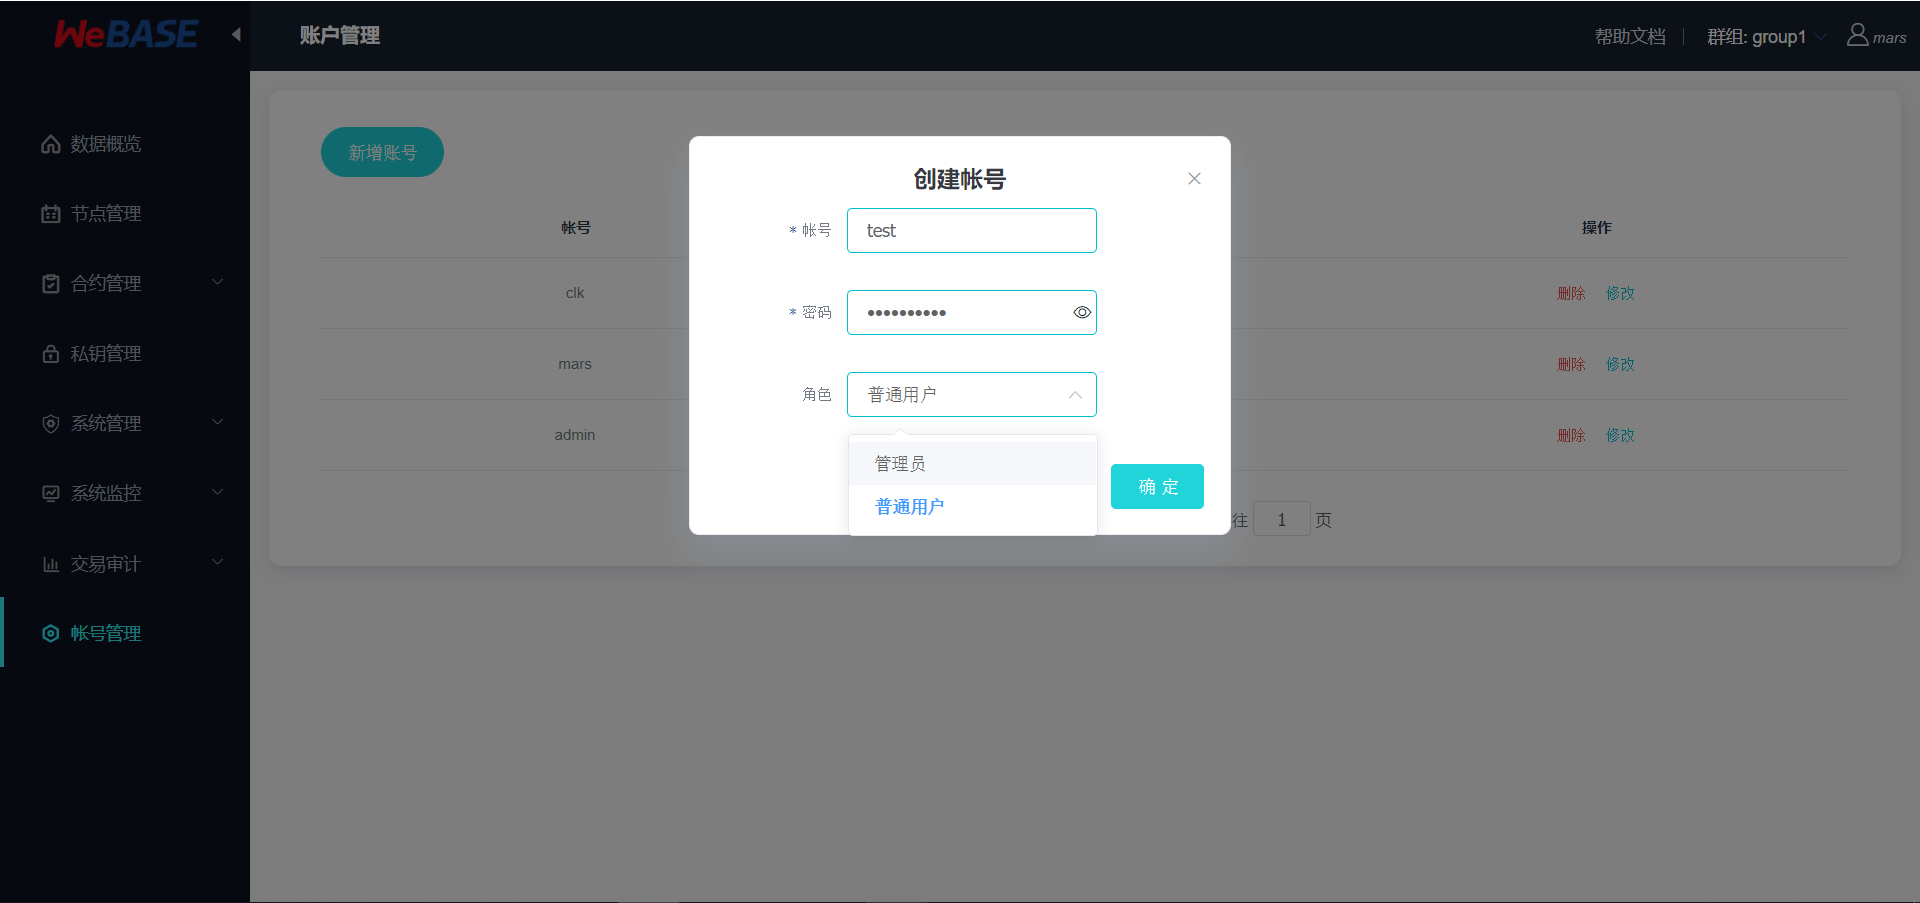
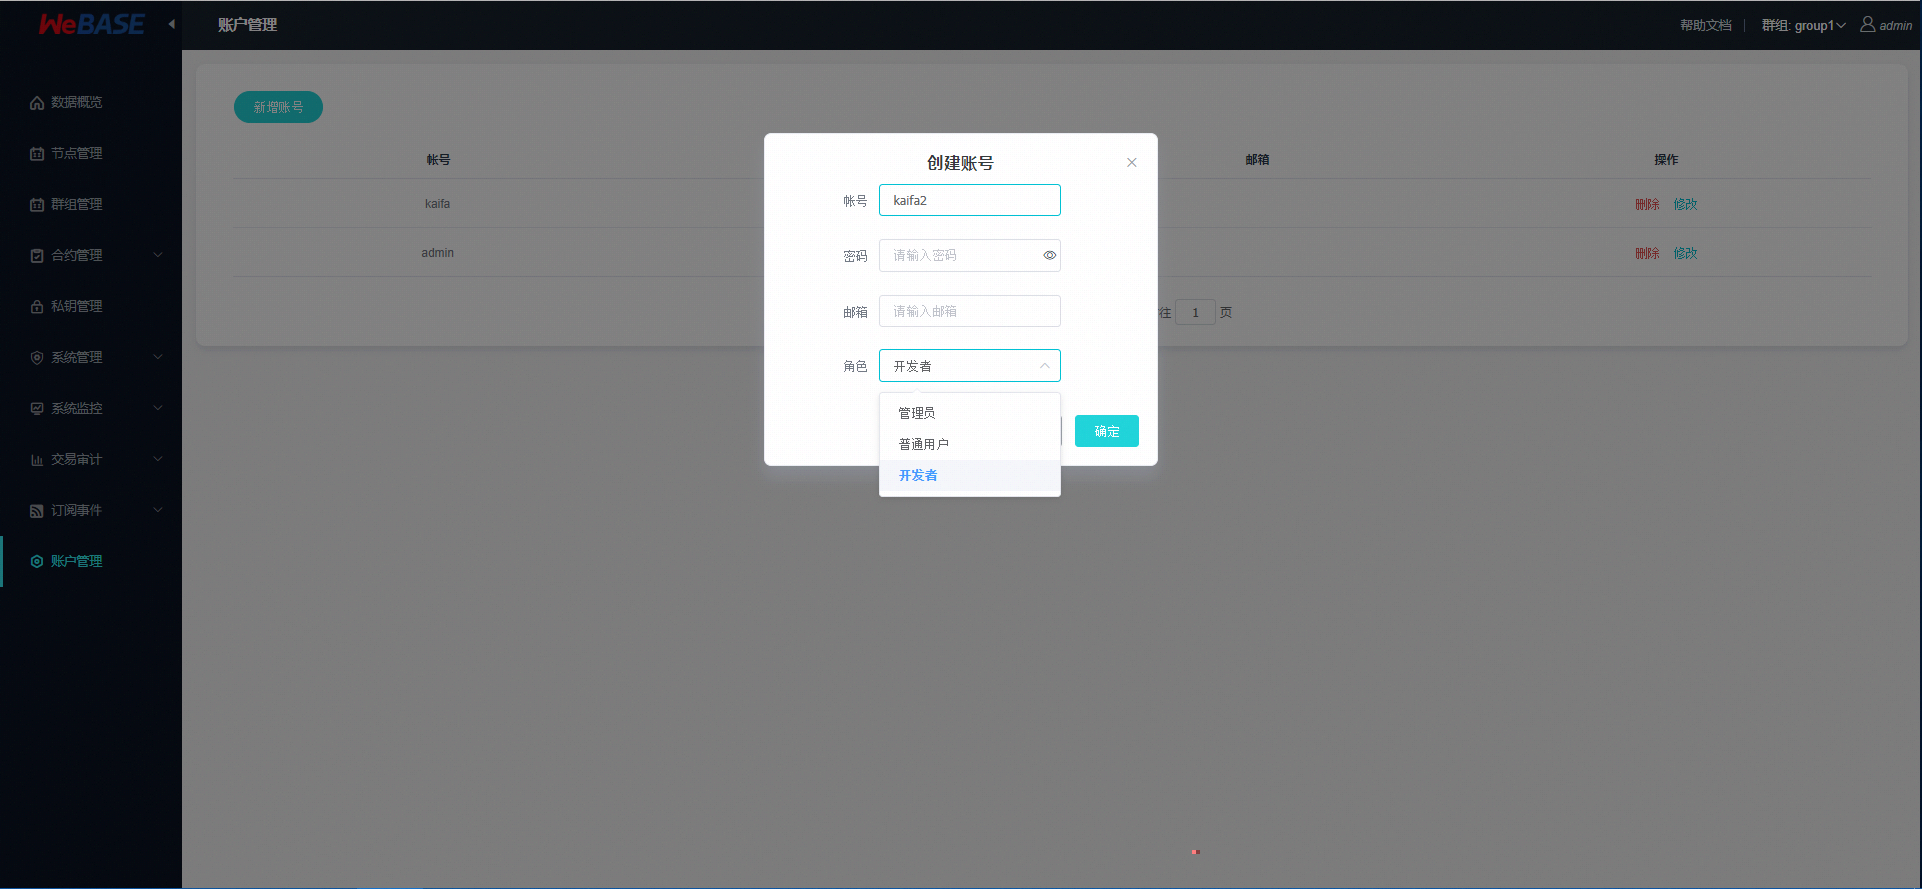
optimize account instructions

diff --git a/docs/WeBASE/install.md b/docs/WeBASE/install.md
@@ -518,23 +518,11 @@ ImportError: No module named 'pymysql'
 
 答：需要安装PyMySQL，安装请参看 [pymysql](#pymysql-python3-5)
 
-### 3. 安装MySQL-python遇到问题
-
-```
-Command "python setup.py egg_info" failed with error code 1
-```
-
-答：运行下面两个命令
-```
-pip install --upgrade setuptools
-python -m pip install --upgrade pip
-```
-
-### 4. 部署时某个组件失败，重新部署提示端口被占用问题
+### 3. 部署时某个组件失败，重新部署提示端口被占用问题
 
 答：因为有个别组件是启动成功的，需先执行“python deploy.py stopAll”将其停止，再执行“python deploy.py installAll”部署全部。
 
-### 5. 管理平台启动时Nginx报错
+### 4. 管理平台启动时Nginx报错
 
 ```
 ...
@@ -546,7 +534,7 @@ Exception: execute cmd  error ,cmd : sudo /usr/local/nginx/sbin/nginx -c /data/a
 
 答：缺少/etc/nginx/mime.types文件，建议重装nginx。
 
-### 6. 部署时数据库访问报错
+### 5. 部署时数据库访问报错
 
 ```
 ...
@@ -563,7 +551,7 @@ OperationalError: (1045, "Access denied for user 'root'@'localhost' (using passw
 
 答：确认数据库用户名和密码
 
-### 7. 节点sdk目录不存在
+### 6. 节点sdk目录不存在
 
 ```
 ...
@@ -572,7 +560,7 @@ OperationalError: (1045, "Access denied for user 'root'@'localhost' (using passw
 
 答：确认节点安装目录下有没有sdk目录（企业部署工具搭建的链可能没有），如果没有，需手动创建"mkdir sdk"，并将节点证书（ca.crt、node.crt、node.key）复制到该目录，再重新部署。
 
-### 8. 前置启动报错“nested exception is javax.net.ssl.SSLException”
+### 7. 前置启动报错“nested exception is javax.net.ssl.SSLException”
 
 ```
 ...
@@ -582,7 +570,7 @@ nested exception is javax.net.ssl.SSLException: Failed to initialize the client-
 答：CentOS的yum仓库的OpenJDK缺少JCE(Java Cryptography Extension)，导致Web3SDK无法正常连接区块链节点，因此在使用CentOS操作系统时，推荐使用[OracleJDK](#jdk)。
 
 
-### 9.前置启动报错“Processing bcos message timeout”
+### 8.前置启动报错“Processing bcos message timeout”
 
 ```
 ...
@@ -593,7 +581,7 @@ org.springframework.beans.factory.UnsatisfiedDependencyException: Error creating
 
 答：一些OpenJDK版本缺少相关包，导致节点连接异常。推荐使用[OracleJDK](#jdk)。
 
-### 10. 服务进程起来了，服务不正常
+### 9. 服务进程起来了，服务不正常
 
 ```
 ...
@@ -602,7 +590,7 @@ org.springframework.beans.factory.UnsatisfiedDependencyException: Error creating
 
 答：查看日志，确认问题原因。确认后修改重启，如果重启提示服务进程在运行，先执行“python deploy.py stopAll”将其停止，再执行“python deploy.py startAll”重启。
 
-### 11. WeBASE-Web登录页面的验证码加载不出来
+### 10. WeBASE-Web登录页面的验证码加载不出来
 
 答：检查WeBASE-Node-Manager后台服务是否已启动成功。若启动成功，检查后台日志：
 
@@ -632,10 +620,10 @@ org.springframework.beans.factory.UnsatisfiedDependencyException: Error creating
 * 修改日志level后，重启服务 `bash stop.sh && bash start.sh`
 
 * 重启服务后，检查日志文件 `log/WeBASE-Node-Manager.log`。
-    
+  
     * 检查是否有异常信息。如果有异常信息，根据具体的异常信息检查环境配置，或者通过搜索引擎进行排查。
 
-### 12. WeBASE 国内镜像与CDN加速服务
+### 11. WeBASE 国内镜像与CDN加速服务
 
 答：WeBASE CDN 加速服务提供 WeBASE 各子系统安装包的下载服务，可参考[国内镜像和CDN加速攻略](./mirror.html)
 

diff --git a/docs/WeBASE-Console-Suit/index.md b/docs/WeBASE-Console-Suit/index.md
@@ -404,9 +404,16 @@ FISCO-BCOS证书说明可以参考FISCO-BCOS使用手册的[证书说明](https:
 
 ### 账号管理
 
-账号管理提供管理台登陆账号的管理功能。管理台用户分为两种角色：
+账号管理提供管理台登陆账号的管理功能。管理台用户分为三种角色：
 - 普通用户，只有查看权限；
+
 - 管理员用户，拥有管理平台的读写权限；
+
+- 开发者用户，拥有开发者自身的合约和私钥用户的读写权限，数据概览权限；
+
+  开发者模式默认关闭。如需开启此功能，可以在WeBASE-Node-Manager配置文件application.yml中修改developerModeEnable为true，然后重启服务。
+
+  ![](../../images/WeBASE-Console-Suit/developer_mode_enable.png)
 
 注：此处账号与私钥管理的私钥用户为两种不同的概念，账号用于管理台权限控制，私钥用户为区块链账户。
 
